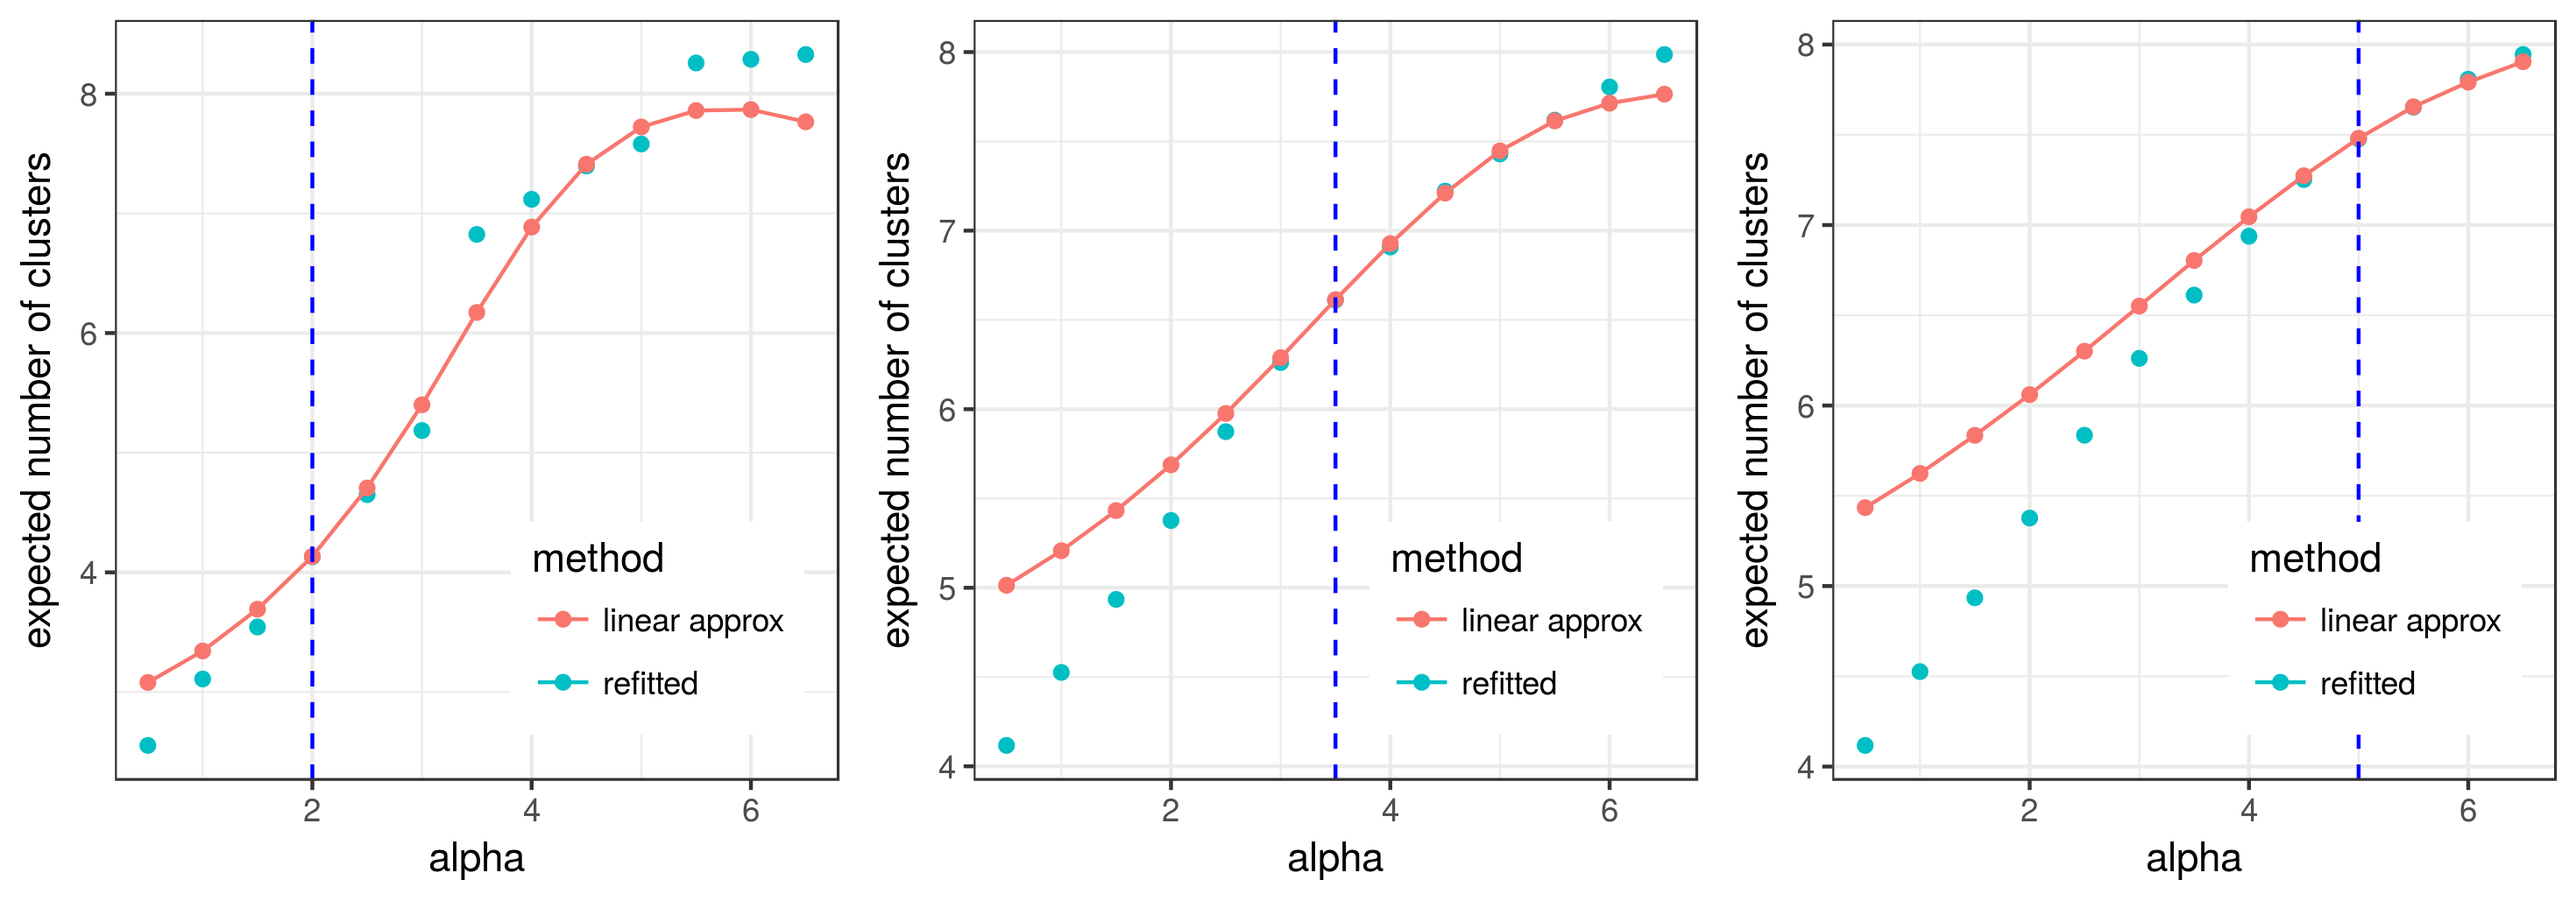
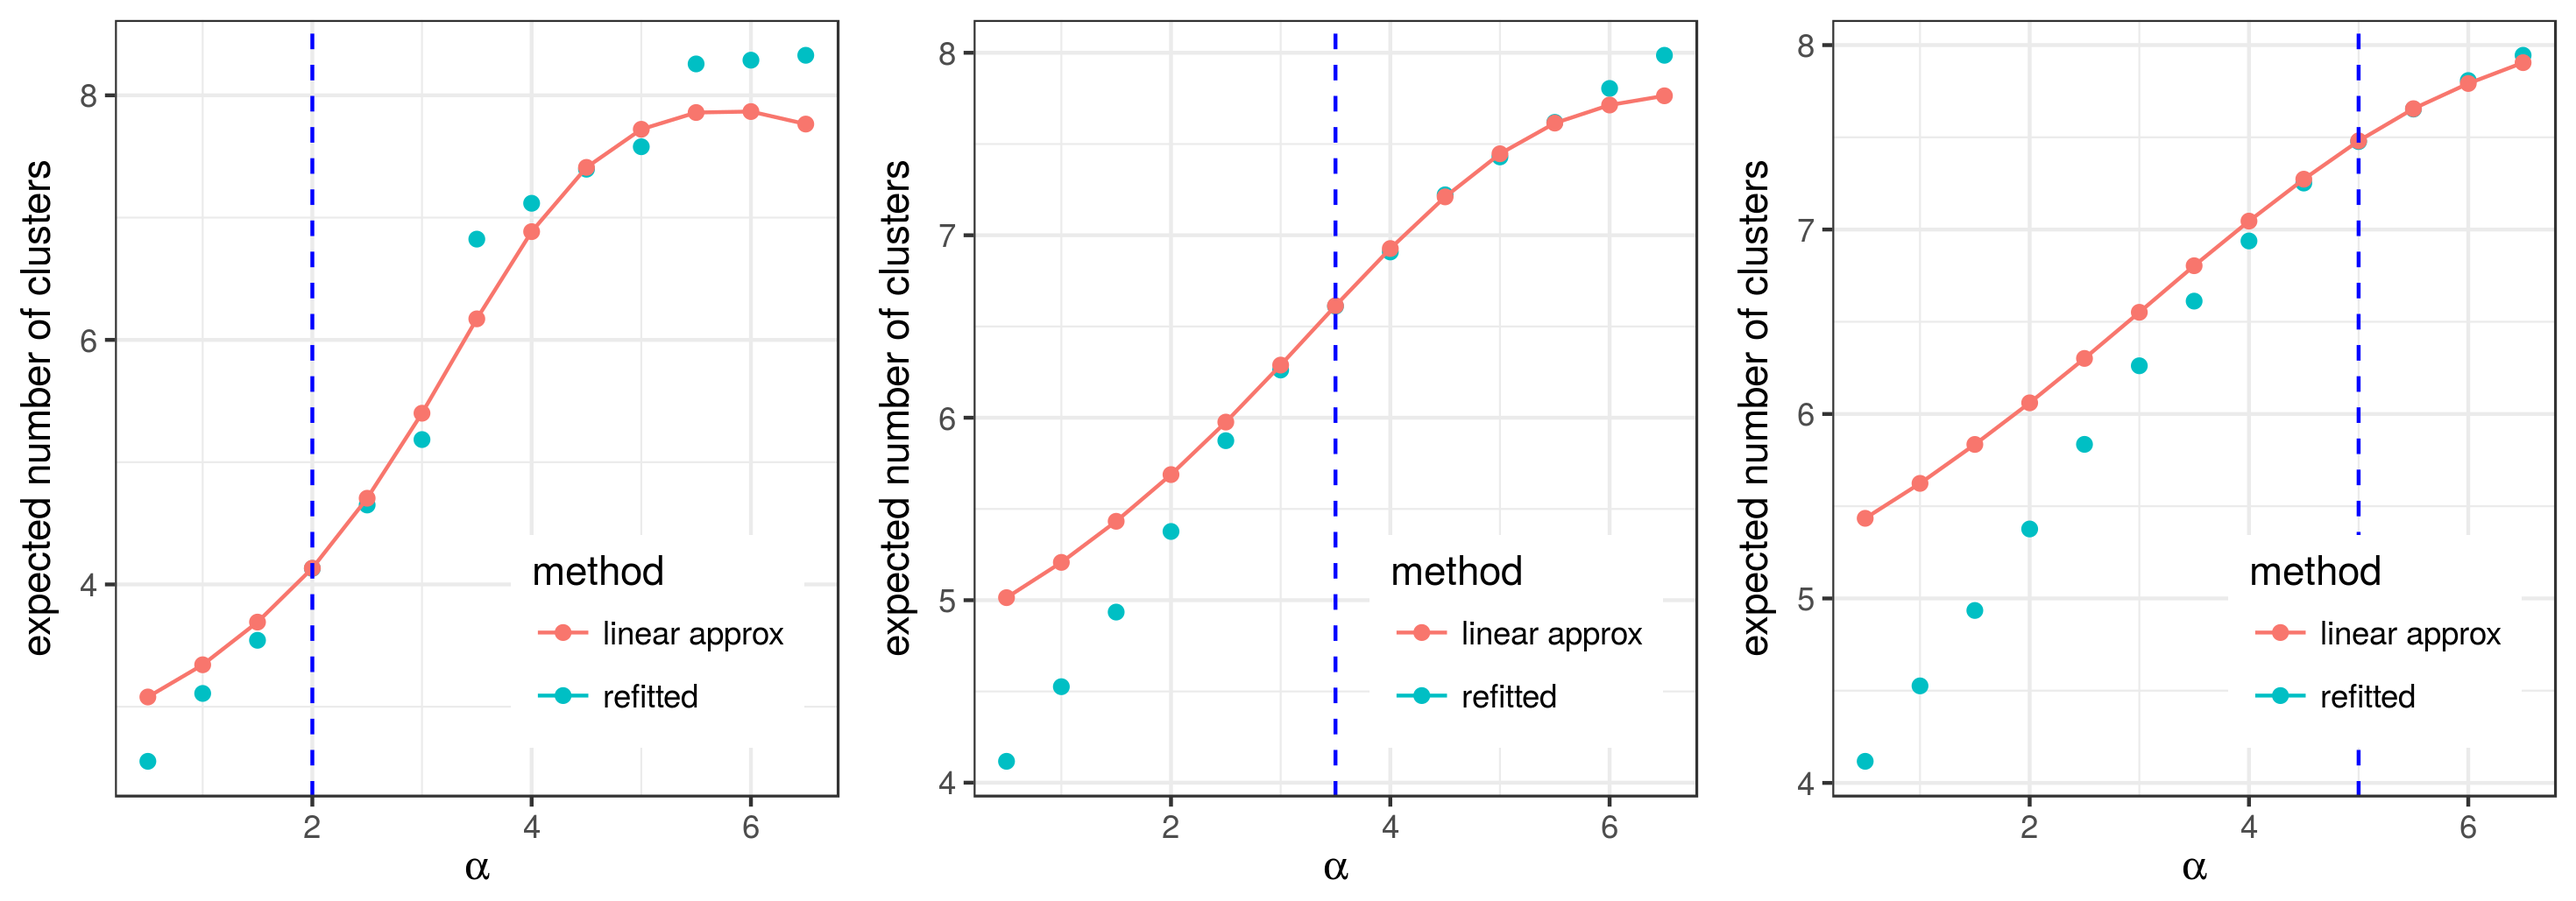
greek in plots

diff --git a/writing/NIPS_2018_BNP_workshop/results_functions.tex b/writing/NIPS_2018_BNP_workshop/results_functions.tex
@@ -8,15 +8,11 @@
 
 
 
-%
-We now use the functional perturbation described in
-\prettyref{eq:expon_perturb} to perturb the prior on the stick distribution. The
-results are shown in \prettyref{fig:func_sens_e_num_clusters}.
-
-We chose two different functional perturbations: for the first we let
-$p_1(\nu_k)$ be a logit normal with parameters $\mu = -2, \sigma = 1$; for the
-second, we let $p_1(\nu_k)$ be a logit normal with parameters $\mu = 2, \sigma =
-1$. In both cases, we then chose $\phi(\nu_k) = p_1(\nu_k) / p_{0k}(\nu_k)$.
+On the Iris data, we chose two different functional perturbations: for the first
+we let $p_1(\nu_k)$ be a logit normal with parameters $\mu = -2, \sigma = 1$;
+for the second, we let $p_1(\nu_k)$ be a logit normal with parameters $\mu = 2,
+\sigma = 1$. In both cases, we then chose $\phi(\nu_k) = p_1(\nu_k) /
+p_{0k}(\nu_k)$.
 
 
 
@@ -35,35 +31,8 @@ re-fitted expected number of clusters after the pertubation.  }\label{fig:functi
 
 
 \end{knitrout}
-
-
-
-% \begin{figure}[h!]
-% 	\centering
-% 	\begin{subfigure}[t]{0.32\textwidth}
-% 		\includegraphics[width = \textwidth]{./functional_sens_results/perturbed_prior1_init3_5.png}
-% 		\subcaption{}
-% 	\end{subfigure}
-%   \begin{subfigure}[t]{0.32\textwidth}
-%     \includegraphics[width = \textwidth]{./functional_sens_results/pred_num_clusters1_init3_5.png}
-%     \subcaption{}
-%   \end{subfigure}\\
-%   \centering
-%   \begin{subfigure}[t]{0.32\textwidth}
-%     \includegraphics[width = \textwidth]{./functional_sens_results/perturbed_prior2_init3_5.png}
-%     \subcaption{}
-%   \end{subfigure}
-%   \begin{subfigure}[t]{0.32\textwidth}
-%     \includegraphics[width = \textwidth]{./functional_sens_results/pred_num_clusters2_init3_5.png}
-%     \subcaption{}
-%   \end{subfigure}
-% 	\caption{Left column: the original prior in purple, the perturbed prior $p_1$ in red. Right: linearly approximated vs.
-%   re-fitted expected number of clusters after purturbing each stick by $\phi(\nu_k)^\epsilon =
-%   [p_1(\nu_k) / p_{0k}(\nu_k)]^\epsilon$.  }
-% 	\label{fig:func_sens_e_num_clusters}
-% \end{figure}
 %
 We find that the linear approximation in this case was able to capture the
 direction of the perturbation, (expected number of clusters increased under the
-first pertubation, decreased under the second), but did not provide a good
-approximation at $\epsilon = 1$.
+first pertubation, decreased under the second), although as
+$\delta \rightarrow 1$ the quality of the approximation degraded.

diff --git a/writing/NIPS_2018_BNP_workshop/functional_perturbations.tex b/writing/NIPS_2018_BNP_workshop/functional_perturbations.tex
@@ -39,13 +39,12 @@ f^{\delta,\phi}_\eta :=
 \end{align*}
 %
 Because we have used a multiplicative perturbation, $f^{\delta,\phi}_\eta$
-is linear in $\delta$
+is linear in $\delta$, which we might expect to improve the fidelity of a
+linear approximation
 %
 \footnote{Indeed, for the purposes of extrapolating to different priors, this
 fact appears to recommend multiplicative perturbations amongst the class of
-non-linear perturbations considered by \citet{gustafson:1996:localposterior}.}
-
-
+non-linear perturbations considered by \citet{gustafson:1996:localposterior}.}.
 % Here,
 % %
 % \begin{align}
